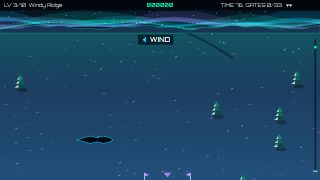
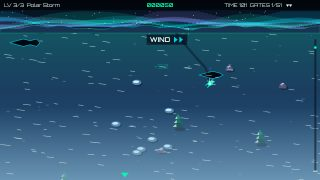
Give Polar Rush three levels and an aurora ending (7i3)
Pine Forest, Blue Crevasse and Polar Storm replace the ten runs: a per-run
table says what each adds and how tight it is, and the storm finale gathers
moguls, ice, the tree chute, the yeti and the avalanche. The unreachable night
run is gone. Clearing the storm opens a sky full of aurora curtains and
coloured snow. Node test, docs and menu picture follow.

Claude-Session: https://claude.ai/code/session_016R86i3evNakTHXcnyVkEfD

diff --git a/internal/generator/templates/themes/aurora/game.js b/internal/generator/templates/themes/aurora/game.js
@@ -7,8 +7,11 @@
  * higher). Every course is built around a "racing line" through its gates:
  * hazards are kept a little away from that line, so a course is always
  * skiable, and everything that makes a level special (wind, the yeti, moguls,
- * ice, the avalanche, darkness, the storm) attacks the player's ability to
- * stay on it.
+ * ice, the avalanche, the storm) attacks the player's ability to stay on it.
+ *
+ * Three runs: a forest with ramps to learn the line and the jump, a crevasse
+ * field with wind and the yeti, and the storm finale with moguls, ice, a
+ * tree chute and the avalanche.
  */
 (function () {
     'use strict';
@@ -37,50 +40,53 @@
     // Course generation
     // ------------------------------------------------------------------
 
-    // Everything that changes from level to level lives here, so the rest of
-    // the code only asks the config what the level has. The slope of every
-    // number is gentle on purpose: a late level is harder mostly through what
-    // it adds (wind, yeti, ice, avalanche, dark, storm), and its course is
-    // only a little tighter than the first one, so that the storm run can be
+    // What each run adds. `tier` sets how tight the course is: the slope of
+    // every number in config() is gentle on purpose, because a later run is
+    // harder mostly through what it adds, and the finale must still be
     // finished by a player who reacts in a quarter of a second.
+    var RUNS = [
+        { tier: 1, len: 15400, rocks: true, ramps: true },
+        { tier: 4, len: 19600, rocks: true, ramps: true, cracks: true, chasm: 0.36, wind: 52, yeti: 334 },
+        { tier: 8, len: 25200, rocks: true, ramps: true, cracks: true, chasm: 0.2, wind: 64, yeti: 350, bumps: true, aval: 282, storm: true }
+    ];
+
+    // Everything that changes from level to level lives here, so the rest of
+    // the code only asks the config what the level has.
     function config(level) {
-        var gap = 560 - level * 10, len = 14000 + level * 1400;
+        var run = RUNS[level - 1], tier = run.tier, gap = 560 - tier * 10;
         // On the touch pad one thumb works both TUCK and JUMP, so a hop comes
         // later and costs the tuck: the phone gets a wider lane, lighter wind
         // and slower chasers to make up for it.
         var soft = G.isTouch() ? 1 : 0;
         return {
             touch: !!soft, label: soft ? 28 : 20,
-            level: level, len: len, gap: gap, gateW: 150 - level * 4,
+            tier: tier, len: run.len, gap: gap, gateW: 150 - tier * 4,
             // The lateral step between two gates is capped by their spacing,
-            // otherwise a late level would ask for turns nobody can make.
-            swing: Math.min(120 + level * 6, gap * 0.45),
-            rowGap: 118 - level * 4, cruise: 300 + level * 4,
+            // otherwise a tight course would ask for turns nobody can make.
+            swing: Math.min(120 + tier * 6, gap * 0.45),
+            rowGap: 118 - tier * 4, cruise: 300 + tier * 4,
             // Free space either side of the racing line. It shrinks only a
             // little: wind and ice already push the skier off the line late on.
-            clear: 66 - level + soft * 8,
-            rocks: level >= 2, ramps: level >= 2, cracks: level >= 3,
-            wind: level >= 3 ? (40 + level * 3) * (1 - soft * 0.2) : 0,
+            clear: 66 - tier + soft * 8,
+            rocks: !!run.rocks, ramps: !!run.ramps, cracks: !!run.cracks,
+            wind: (run.wind || 0) * (1 - soft * 0.2),
             // The yeti is a little faster than an upright skier going straight
             // (cruise + 18) and much faster than one who is carving, but far
             // slower than a tuck: an upright skier who keeps turning can be
             // caught within the CHASE seconds, a tucked one never is.
-            yeti: level >= 4 ? 318 + level * 4 - soft * 8 : 0,
-            chasm: level < 5 ? 0 : (level === 5 ? 0.36 : 0.2),
-            bumps: level >= 6,
-            aval: level >= 8 ? 250 + level * 4 - soft * 14 : 0,
-            dark: level === 9, storm: level === 10,
+            yeti: run.yeti ? run.yeti - soft * 8 : 0,
+            chasm: run.chasm || 0, bumps: !!run.bumps,
+            aval: run.aval ? run.aval - soft * 14 : 0,
+            storm: !!run.storm,
             // Enough for an upright run with some missed gates and a crash;
             // dawdling or missing every other gate still runs it out.
-            time: len / (240 + level * 2) + 10
+            time: run.len / (240 + tier * 2) + 10
         };
     }
 
-    // Level 7 is one long tree-lined chute; the storm run has a chute in its
-    // middle third.
+    // The storm run has a tree-lined chute in its middle third.
     function chuteAt(cfg, y) {
-        if (cfg.level === 7) return y > 900 && y < cfg.len - 500;
-        return cfg.level === 10 && y > cfg.len * 0.4 && y < cfg.len * 0.62;
+        return cfg.storm && y > cfg.len * 0.4 && y < cfg.len * 0.62;
     }
 
     // Gates zigzag: most steps flip the side, so skiing straight down misses.
@@ -200,7 +206,7 @@
         // Only the set pieces exist yet, so every crevasse here is a chasm.
         var cfg = s.cfg, strips = landingStrips(s.obs);
         for (var y = ROW0; y < cfg.len - 260; y += cfg.rowGap) {
-            var n = 2 + (s.rnd() < cfg.level * 0.06 ? 1 : 0) + (s.rnd() < cfg.level * 0.025 ? 1 : 0);
+            var n = 2 + (s.rnd() < cfg.tier * 0.06 ? 1 : 0) + (s.rnd() < cfg.tier * 0.025 ? 1 : 0);
             for (var j = 0; j < n; j++) addHazard(s, 40 + s.rnd() * 880, y + s.rnd() * cfg.rowGap * 0.8, strips);
             if (chuteAt(cfg, y)) addWalls(s, y);
         }
@@ -884,17 +890,6 @@
     // Drawing: weather, sky and overlays
     // ------------------------------------------------------------------
 
-    // Night run: only a pool of lamp light around and ahead of the skier. It
-    // is wide enough that a tree is still told from the dark about 230px
-    // out, two thirds of a second ahead at speed.
-    function drawDarkness(s, ctx) {
-        var sk = s.sk, y = sk.y - s.cam + 100;
-        var grad = ctx.createRadialGradient(sk.x, y, 90, sk.x, y, 390);
-        grad.addColorStop(0, 'rgba(2,6,14,0)'); grad.addColorStop(1, 'rgba(2,6,14,0.93)');
-        ctx.fillStyle = grad;
-        ctx.fillRect(0, HORIZON, G.W, G.H - HORIZON);
-    }
-
     // Storm fog thickens toward the bottom edge, where things first appear.
     // It stays thin enough that a pale tree can still be made out there on a
     // small screen: the storm shortens the view, it must not blind.
@@ -916,7 +911,7 @@
     }
 
     // A chevron at the bottom edge shows where the next gate will appear; it
-    // is what makes the dark and the storm level fair.
+    // is what makes the storm run fair.
     function drawGateHint(s, ctx) {
         var g = s.gates[s.nextGate];
         if (!g || g.y - s.cam < G.H - 20) return;
@@ -948,7 +943,9 @@
         }
     }
 
-    function drawRibbon(ctx, t, phase, color) {
+    // One aurora curtain hanging from y; `scale` stretches it (the sky strip
+    // uses 1, the ending a much taller one) and `ceil` is the highest it reaches.
+    function drawRibbon(ctx, t, phase, color, y, scale, ceil) {
         ctx.fillStyle = color;
         // Batch each brightness band instead of issuing 160 fills per ribbon.
         // The same curtains stay animated at the phone's native canvas scale.
@@ -956,9 +953,9 @@
             ctx.globalAlpha = band ? 0.22 : 0.12;
             ctx.beginPath();
             for (var x = 0; x < G.W; x += 12) {
-                var base = 78 + 9 * Math.sin(x * 0.008 + t * 0.5 + phase) + 5 * Math.sin(x * 0.021 - t * 0.8 + phase);
-                var h = 26 + 14 * Math.sin(x * 0.013 + t * 0.9 + phase * 2);
-                var top = band ? base - h * 0.35 : Math.max(G.HUD + 4, base - h);
+                var base = y + scale * (9 * Math.sin(x * 0.008 + t * 0.5 + phase) + 5 * Math.sin(x * 0.021 - t * 0.8 + phase));
+                var h = scale * (26 + 14 * Math.sin(x * 0.013 + t * 0.9 + phase * 2));
+                var top = band ? base - h * 0.35 : Math.max(ceil, base - h);
                 ctx.rect(x, top, 12, base - top);
             }
             ctx.fill();
@@ -978,9 +975,9 @@
             ctx.fillRect(hash(i + 7) * G.W, G.HUD + hash(i + 9.3) * 46, 2, 2);
         }
         ctx.globalCompositeOperation = 'lighter';
-        drawRibbon(ctx, s.clock, 0, GREEN);
-        drawRibbon(ctx, s.clock, 2.1, TEAL);
-        drawRibbon(ctx, s.clock, 4.4, PURPLE);
+        drawRibbon(ctx, s.clock, 0, GREEN, 78, 1, G.HUD + 4);
+        drawRibbon(ctx, s.clock, 2.1, TEAL, 78, 1, G.HUD + 4);
+        drawRibbon(ctx, s.clock, 4.4, PURPLE, 78, 1, G.HUD + 4);
         ctx.globalCompositeOperation = 'source-over';
         drawRidge(ctx);
     }
@@ -1068,7 +1065,6 @@
         drawWorld(s, ctx);
         drawYeti(s, ctx);
         drawAvalanche(s, ctx);
-        if (s.cfg.dark) drawDarkness(s, ctx);
         if (s.cfg.storm) drawFog(ctx);
         drawFlakes(s, ctx);
         drawGateHint(s, ctx);
@@ -1086,6 +1082,31 @@
         return text;
     }
 
+    // ------------------------------------------------------------------
+    // The ending: the aurora fills the whole sky and snow sparkles fall
+    // ------------------------------------------------------------------
+
+    // Three tall curtains, livelier than the sky strip's, and a snowfall that
+    // glints in the curtains' colours. Positions come from e.t and the
+    // flake's index alone, so the scene keeps no state.
+    function drawEndingSky(e, ctx) {
+        var t = e.t * 1.6, rise = G.clamp(e.t / 1.5, 0, 1);
+        ctx.globalCompositeOperation = 'lighter';
+        drawRibbon(ctx, t, 0, GREEN, 260, 5 * rise, 0);
+        drawRibbon(ctx, t, 2.1, TEAL, 300, 4 * rise, 0);
+        drawRibbon(ctx, t, 4.4, PURPLE, 340, 3.5 * rise, 0);
+        ctx.globalCompositeOperation = 'source-over';
+        var tints = [SNOW, GREEN, TEAL, PURPLE];
+        for (var i = 0; i < 90; i++) {
+            var fall = 30 + hash(i + 0.7) * 50, y = (hash(i + 0.2) * G.H + e.t * fall) % G.H;
+            var x = hash(i) * G.W + 14 * Math.sin(e.t * 1.3 + i);
+            ctx.globalAlpha = 0.45 + 0.55 * Math.abs(Math.sin(e.t * 3 + i));
+            ctx.fillStyle = tints[i % 4];
+            ctx.fillRect(x, y, 3, 3);
+        }
+        ctx.globalAlpha = 1;
+    }
+
     G.register('aurora', {
         title: 'POLAR RUSH',
         blurb: 'Ski the gates down to the finish before the clock runs out.',
@@ -1099,8 +1120,13 @@
         // 8-way pad a thumb sliding between ◀ and ▶ would hold ▼ half the
         // time, and an unwanted tuck (faster, worse steering) wrecks a line.
         touch: { a: 'JUMP', b: 'TUCK', hide: ['up', 'down'] },
-        levelNames: ['Bunny Slope', 'Pine Forest', 'Windy Ridge', 'Yeti Country', 'Blue Crevasse',
-            'Moguls and Ice', 'Tree Chute', 'White Thunder', 'Moonless Glacier', 'Polar Storm'],
+        ending: {
+            title: 'POLAR CHAMPION',
+            text: 'Down through the storm, under the northern lights.',
+            colors: [SNOW, GREEN, TEAL, PURPLE],
+            draw: drawEndingSky
+        },
+        levelNames: ['Pine Forest', 'Blue Crevasse', 'Polar Storm'],
         colors: { bg: NAVY, fg: SNOW, accent: GREEN, dim: '#7fa8b8' },
         lives: 3,
         music: {

diff --git a/docs/games.md b/docs/games.md
@@ -489,11 +489,20 @@ skier descends. `← →` carve (turning bleeds speed, with inertia), `↓` tuck
 speed, `SPACE` jump (also off ramps, for airtime and points). Pass between
 slalom gate flags (a miss costs time), dodge pines, rocks and ice crevasses
 (crash = lose a life, short stun). Reach the finish line before the clock runs
-out. Levels: longer and denser courses; side wind gusts from level 3; a yeti
-that chases when you are slow from level 4; moguls and ice patches (no grip)
-from level 6; an avalanche wall closing from behind from level 8; level 10 is a
-storm run with everything. Draw aurora ribbons in the sky strip and snow
-spray particles. Music: airy lydian arpeggios.
+out; a missed gate costs three seconds. Levels:
+
+1. **Pine Forest** — pines, rocks and ramps (big air clears even a tree):
+   learn the line, the tuck and the jump.
+2. **Blue Crevasse** — a longer, tighter course with crevasses and chasms to
+   jump (half with a ramp), side wind gusts, and a yeti that chases when you
+   are slow.
+3. **Polar Storm** — the finale: storm fog and snow, moguls and ice patches
+   (no grip), a tree-lined chute in the middle third, the yeti, and an
+   avalanche wall closing in from behind.
+
+Aurora ribbons in the sky strip, snow spray particles. The ending: the aurora
+fills the whole sky and coloured snow glints down through the fireworks
+(**POLAR CHAMPION**). Music: airy lydian arpeggios.
 
 ### biomech — Spine Crawler (centipede-style shooter)
 A segmented biomechanical worm winds down through a field of bone nodes; it
